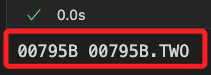
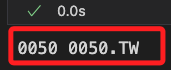
Commit on 2024-12-10 12:57:28

Changed region(s): [[0.0, 0.3714, 1.0, 0.9429], [0.2632, 0.0571, 0.4971, 0.2857], [0.117, 0.0857, 0.2339, 0.2857]]

diff --git a/D73_網格交易測試/11_設定參數.md b/D73_網格交易測試/11_設定參數.md
@@ -4,7 +4,7 @@ _開始進行網格交易_
 
 <br>
 
-## 參數設定
+## 檢查並轉換代碼
 
 _開啟新的 `.ipynb` 腳本_
 
@@ -71,7 +71,7 @@ _開啟新的 `.ipynb` 腳本_
 
 <br>
 
-4. 將前面步驟驗證過的代碼轉換為後續所需的變數；這裡是以 `00795B` 為例，確保尾綴可以被正確辨識。
+4. 將前面步驟驗證過的代碼轉換為後續所需的變數，確保尾綴可以被正確辨識。
 
     ```python
     # 標的代碼，就是用作檢查的股票代碼
@@ -86,7 +86,15 @@ _開啟新的 `.ipynb` 腳本_
 
 <br>
 
-5. 設定網格交易參數，包含 `初始部位`、`網個間距`、`每次交易單位`、`上漲下跌間距比率`。
+5. 若標的為店頭股票，依舊可正確辨識。
+
+    ![](images/img_90.png)
+
+<br>
+
+## 參數設定
+
+1. 設定網格交易參數，包含 `初始部位`、`網個間距`、`每次交易單位`、`上漲下跌間距比率`。
 
     ```python
     # 設定初始部位為 50%
@@ -101,7 +109,7 @@ _開啟新的 `.ipynb` 腳本_
 
 <br>
 
-6. 依據設定計算並檢查初始部位相當於多少交易單位，確保資金可被耗盡；特別說明，其實這並非必要條件，甚至交易單位可以設置為彈性變動，這將在後續優化中進行調整。
+2. 依據設定計算並檢查初始部位相當於多少交易單位，確保資金可被耗盡；特別說明，其實這並非必要條件，甚至交易單位可以設置為彈性變動，這將在後續優化中進行調整。
 
     ```python
     # 換算初始部位的交易單位
@@ -116,7 +124,7 @@ _開啟新的 `.ipynb` 腳本_
 
 <br>
 
-7. 下載完整數據，預設從 `2008` 年開始。
+3. 下載完整數據，預設從 `2008` 年開始。
 
     ```python
     # 下載數據
@@ -127,7 +135,7 @@ _開啟新的 `.ipynb` 腳本_
 
 <br>
 
-8. 若要下載指定的期間，加入起訖日期作為參數，期間已在前面步驟建立；若沒有要指定期間，可跳過這步驟。
+4. 若要下載指定的期間，加入起訖日期作為參數，期間已在前面步驟建立；若沒有要指定期間，可跳過這步驟。
 
     ```python
     # 下載指定日期數據
@@ -140,7 +148,7 @@ _開啟新的 `.ipynb` 腳本_
 
 <br>
 
-9. 接下是以下載完整數據為例，下載後查看結果，共計 `4157` 筆，欄位有 `6` 個。
+5. 接下是以下載完整數據為例，下載後查看結果，共計 `4157` 筆，欄位有 `6` 個。
 
     ```python
     data
@@ -150,7 +158,7 @@ _開啟新的 `.ipynb` 腳本_
 
 <br>
 
-10. 查看欄位資訊，可看到結果顯示了 `復合欄位資訊`，也就是欄位具備 `多重索引（MultiIndex）`，欄位數據中會包含多層次的訊息；以本例來說，第一個層次是價格資訊，用於描述收盤價、開盤價等，第二個層次是股票代碼，在這就是 `0050.TW`。
+6. 查看欄位資訊，可看到結果顯示了 `復合欄位資訊`，也就是欄位具備 `多重索引（MultiIndex）`，欄位數據中會包含多層次的訊息；以本例來說，第一個層次是價格資訊，用於描述收盤價、開盤價等，第二個層次是股票代碼，在這就是 `0050.TW`。
 
     ```python
     print(data.columns)
